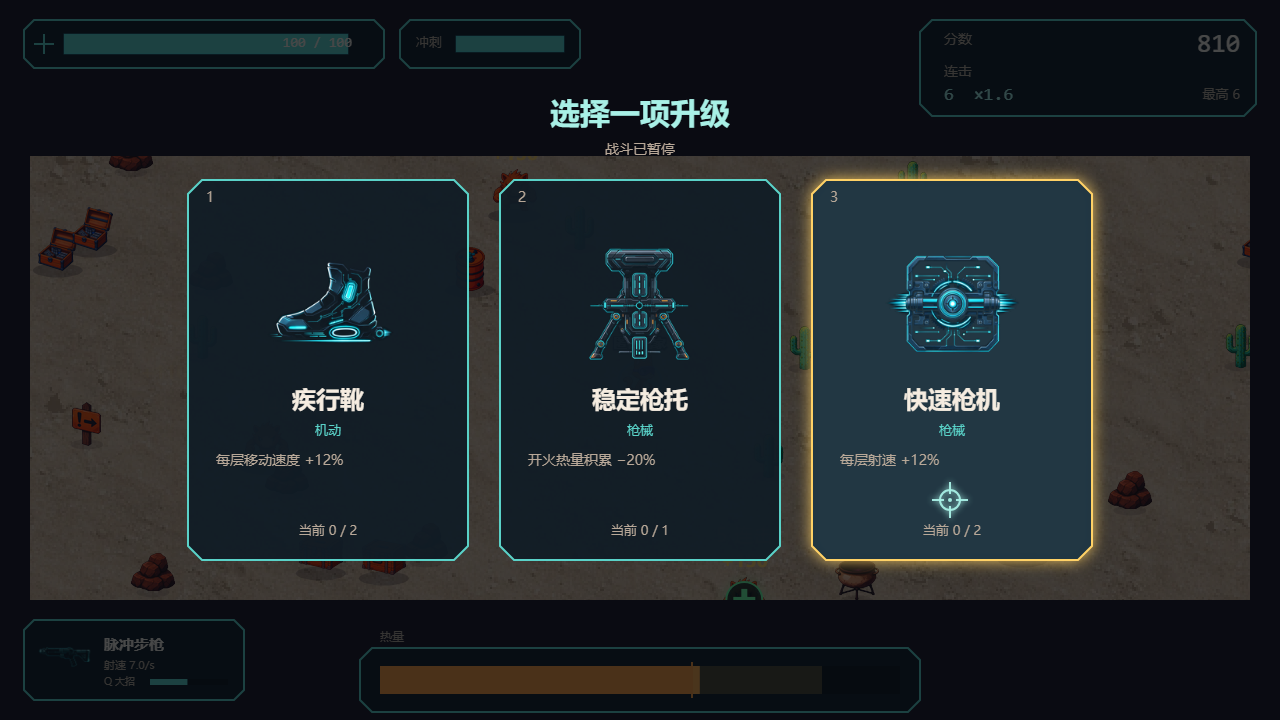
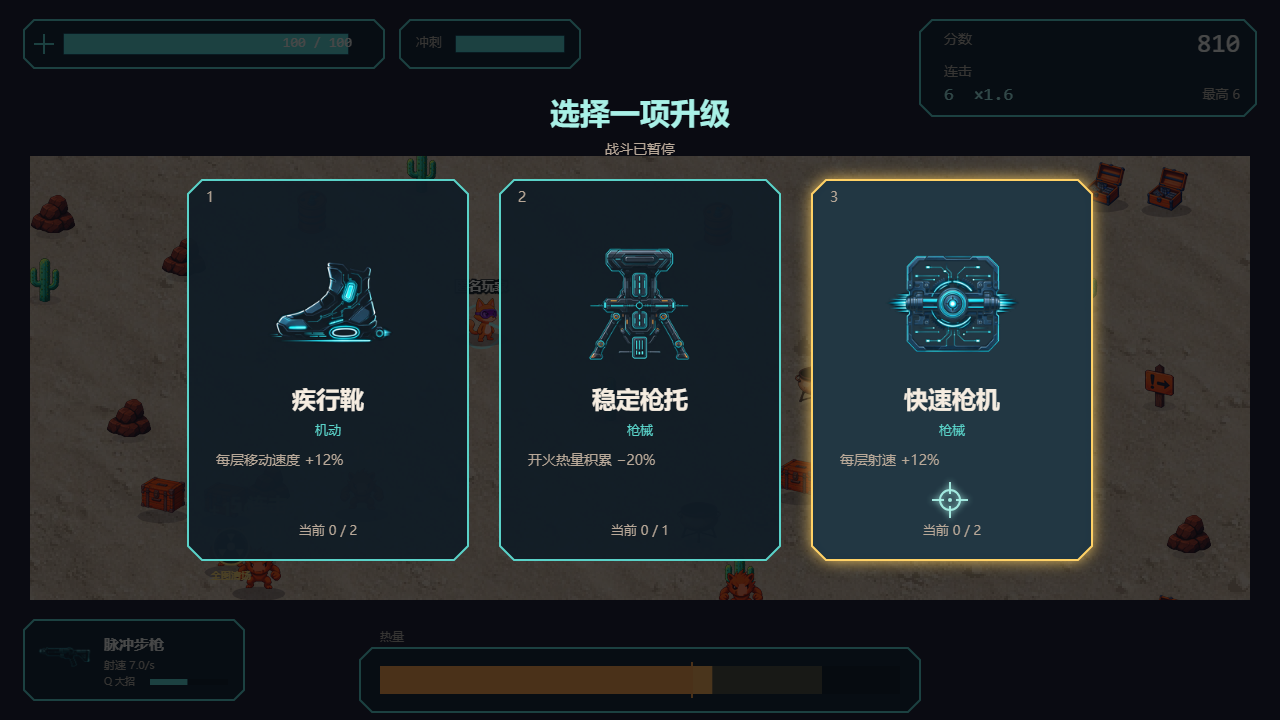
feat: 镜头 1.35 倍缩放 + 移除地面瓦片网格回退

diff --git a/js/state.js b/js/state.js
@@ -59,37 +59,38 @@ const Game = {
 function snapCamera() {
   const p = Game.player;
   if (!p) { Game.cam.x = 0; Game.cam.y = 0; return; }
-  Game.cam.x = clamp(p.x + p.w / 2 - VIEW.w / 2, 0, FIELD.right - VIEW.w);
-  Game.cam.y = clamp(p.y + p.h / 2 - VIEW.h / 2, 0, FIELD.bottom - VIEW.h);
+  const vw = VIEW.w / CAMERA_ZOOM, vh = VIEW.h / CAMERA_ZOOM;
+  Game.cam.x = clamp(p.x + p.w / 2 - vw / 2, 0, FIELD.right - vw);
+  Game.cam.y = clamp(p.y + p.h / 2 - vh / 2, 0, FIELD.bottom - vh);
 }
 
 function updateCamera(dt) {
   const p = Game.player;
   if (!p) return;
+  const vw = VIEW.w / CAMERA_ZOOM, vh = VIEW.h / CAMERA_ZOOM;
   const px = p.x + p.w / 2, py = p.y + p.h / 2;
   let tx = Game.cam.x, ty = Game.cam.y;
   if (Game.bossIntroTimer > 0 && Game.boss && Game.boss.alive) {
     const b = Game.boss;
     const mx = (px + b.x + b.w / 2) / 2, my = (py + b.y + b.h / 2) / 2;
-    tx = clamp(mx - VIEW.w / 2, 0, FIELD.right - VIEW.w);
-    ty = clamp(my - VIEW.h / 2, 0, FIELD.bottom - VIEW.h);
+    tx = clamp(mx - vw / 2, 0, FIELD.right - vw);
+    ty = clamp(my - vh / 2, 0, FIELD.bottom - vh);
     const kk = 1 - Math.pow(0.0008, dt);
     Game.cam.x = lerp(Game.cam.x, tx, kk);
     Game.cam.y = lerp(Game.cam.y, ty, kk);
     return;
   }
-  // 中央死区，角色接近视口边缘时镜头才跟进
-  const deadL = VIEW.w * 0.32, deadR = VIEW.w * 0.68;
-  const deadT = VIEW.h * 0.30, deadB = VIEW.h * 0.70;
-  const sx = px - Game.cam.x, sy = py - Game.cam.y;
-  if (sx < deadL) tx = px - deadL;
-  else if (sx > deadR) tx = px - deadR;
-  if (sy < deadT) ty = py - deadT;
-  else if (sy > deadB) ty = py - deadB;
-  tx = clamp(tx, 0, FIELD.right - VIEW.w);
-  ty = clamp(ty, 0, FIELD.bottom - VIEW.h);
+  // 中央死区，角色接近视口边缘时镜头才跟进（按屏幕像素判断）
+  const screenX = (px - Game.cam.x) * CAMERA_ZOOM;
+  const screenY = (py - Game.cam.y) * CAMERA_ZOOM;
+  if (screenX < VIEW.w * 0.32) tx = px - (VIEW.w * 0.32) / CAMERA_ZOOM;
+  else if (screenX > VIEW.w * 0.68) tx = px - (VIEW.w * 0.68) / CAMERA_ZOOM;
+  if (screenY < VIEW.h * 0.30) ty = py - (VIEW.h * 0.30) / CAMERA_ZOOM;
+  else if (screenY > VIEW.h * 0.70) ty = py - (VIEW.h * 0.70) / CAMERA_ZOOM;
+  tx = clamp(tx, 0, FIELD.right - vw);
+  ty = clamp(ty, 0, FIELD.bottom - vh);
   const k = 1 - Math.pow(0.0015, dt);
-  Game.cam.x = clamp(lerp(Game.cam.x, tx, k), 0, FIELD.right - VIEW.w);
-  Game.cam.y = clamp(lerp(Game.cam.y, ty, k), 0, FIELD.bottom - VIEW.h);
+  Game.cam.x = clamp(lerp(Game.cam.x, tx, k), 0, FIELD.right - vw);
+  Game.cam.y = clamp(lerp(Game.cam.y, ty, k), 0, FIELD.bottom - vh);
 }
 

diff --git a/js/render.js b/js/render.js
@@ -55,22 +55,13 @@ function drawBackground(time) {
 
 function drawMap() {
   const map = Game.map || MAPS[0];
-  const gImg = Assets.get(map.ground) || Assets.get('sand');
-  const gImg2 = Assets.get(map.ground2) || Assets.get('sand2');
-  // 大世界地面纹理优先；缺失时回退到纯色瓦片平铺
-  const tex = (map.groundTexWorld && Assets.get(map.groundTexWorld)) ||
-              (map.groundTex && Assets.get(map.groundTex));
+  // 大世界地面纹理优先；缺失时使用纯色底，绝不平铺瓦片拼出网格
+  const tex = map.groundTexWorld ? Assets.get(map.groundTexWorld) : null;
   if (tex) {
     ctx.drawImage(tex, 0, 0, FIELD.right, FIELD.bottom);
   } else {
-    for (let y = FIELD.top; y < FIELD.bottom; y += TILE) {
-      for (let x = FIELD.left; x < FIELD.right; x += TILE) {
-        const alt = ((Math.floor(x / TILE) + Math.floor(y / TILE)) % 4 === 0);
-        const img = alt ? gImg2 : gImg;
-        if (img) ctx.drawImage(img, x, y, TILE, TILE);
-        else { ctx.fillStyle = C.SAND; ctx.fillRect(x, y, TILE, TILE); }
-      }
-    }
+    ctx.fillStyle = map.fallbackColor || C.SAND;
+    ctx.fillRect(0, 0, FIELD.right, FIELD.bottom);
   }
   const dim = map.groundDim || 0;
   if (dim > 0) {

diff --git a/js/player.js b/js/player.js
@@ -80,7 +80,10 @@ function pointHitsObstacle(x, y) {
 
 // 屏幕鼠标坐标 -> 世界坐标（考虑相机）
 function mouseWorldPosition() {
-  return { x: Input.mouse.x - VIEW.left + Game.cam.x, y: Input.mouse.y - VIEW.top + Game.cam.y };
+  return {
+    x: Game.cam.x + (Input.mouse.x - VIEW.left) / CAMERA_ZOOM,
+    y: Game.cam.y + (Input.mouse.y - VIEW.top) / CAMERA_ZOOM
+  };
 }
 
 function aimAngleFromPlayer(p) {

diff --git a/js/main.js b/js/main.js
@@ -261,7 +261,10 @@ window.__afterheatDebug = {
   },
   // 世界坐标 -> 屏幕坐标（测试瞄准用）
   screenPoint(x, y) {
-    return { x: x - Game.cam.x + VIEW.left, y: y - Game.cam.y + VIEW.top };
+    return {
+      x: VIEW.left + (x - Game.cam.x) * CAMERA_ZOOM,
+      y: VIEW.top + (y - Game.cam.y) * CAMERA_ZOOM
+    };
   },
   aimAt(x, y, down) {
     const s = this.screenPoint(x, y);

diff --git a/js/config.js b/js/config.js
@@ -3,6 +3,7 @@
 // ===== 基础常量与配置 =====
 const W = 1280, H = 720;
 const FIXED_DT = 1 / 60;
+const CAMERA_ZOOM = 1.35; // 世界内容放大倍数（不改变地图尺寸）
 const MAX_FRAME_DT = 0.05;
 
 const C = {
